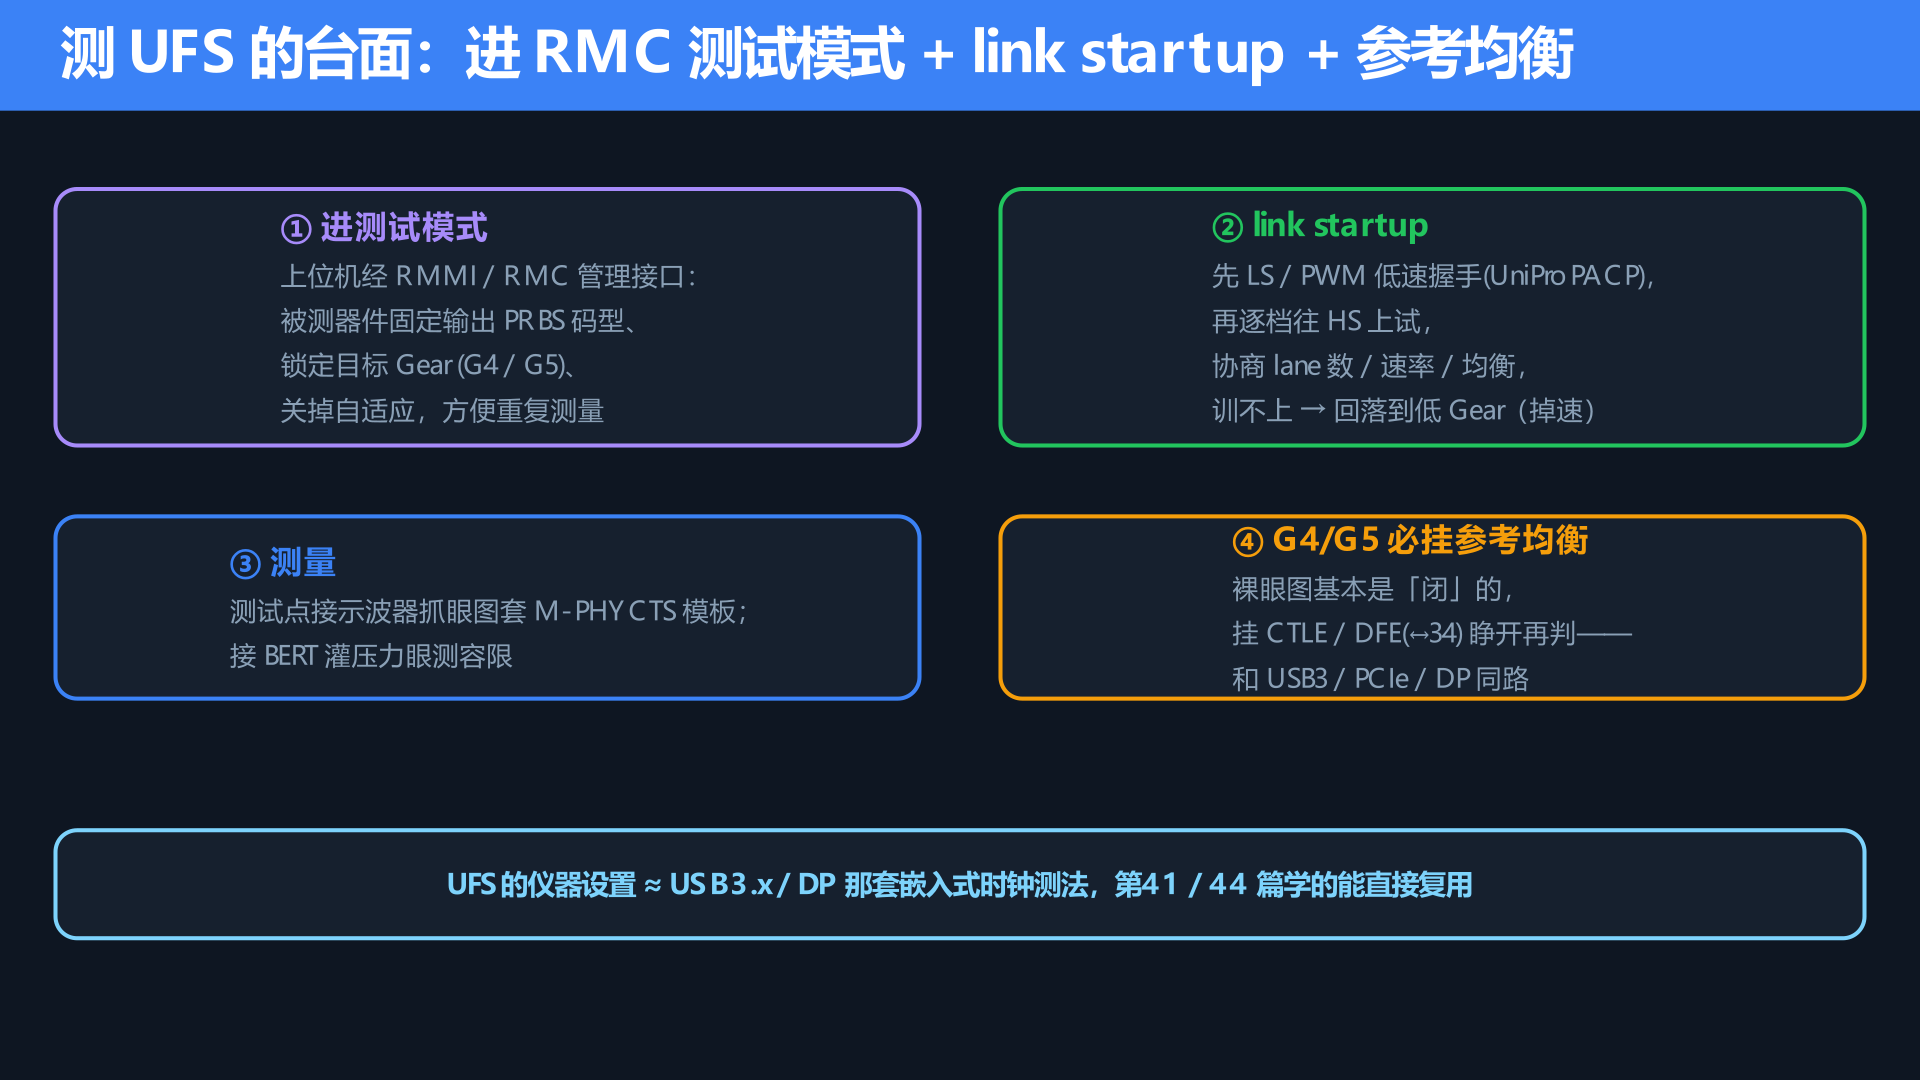
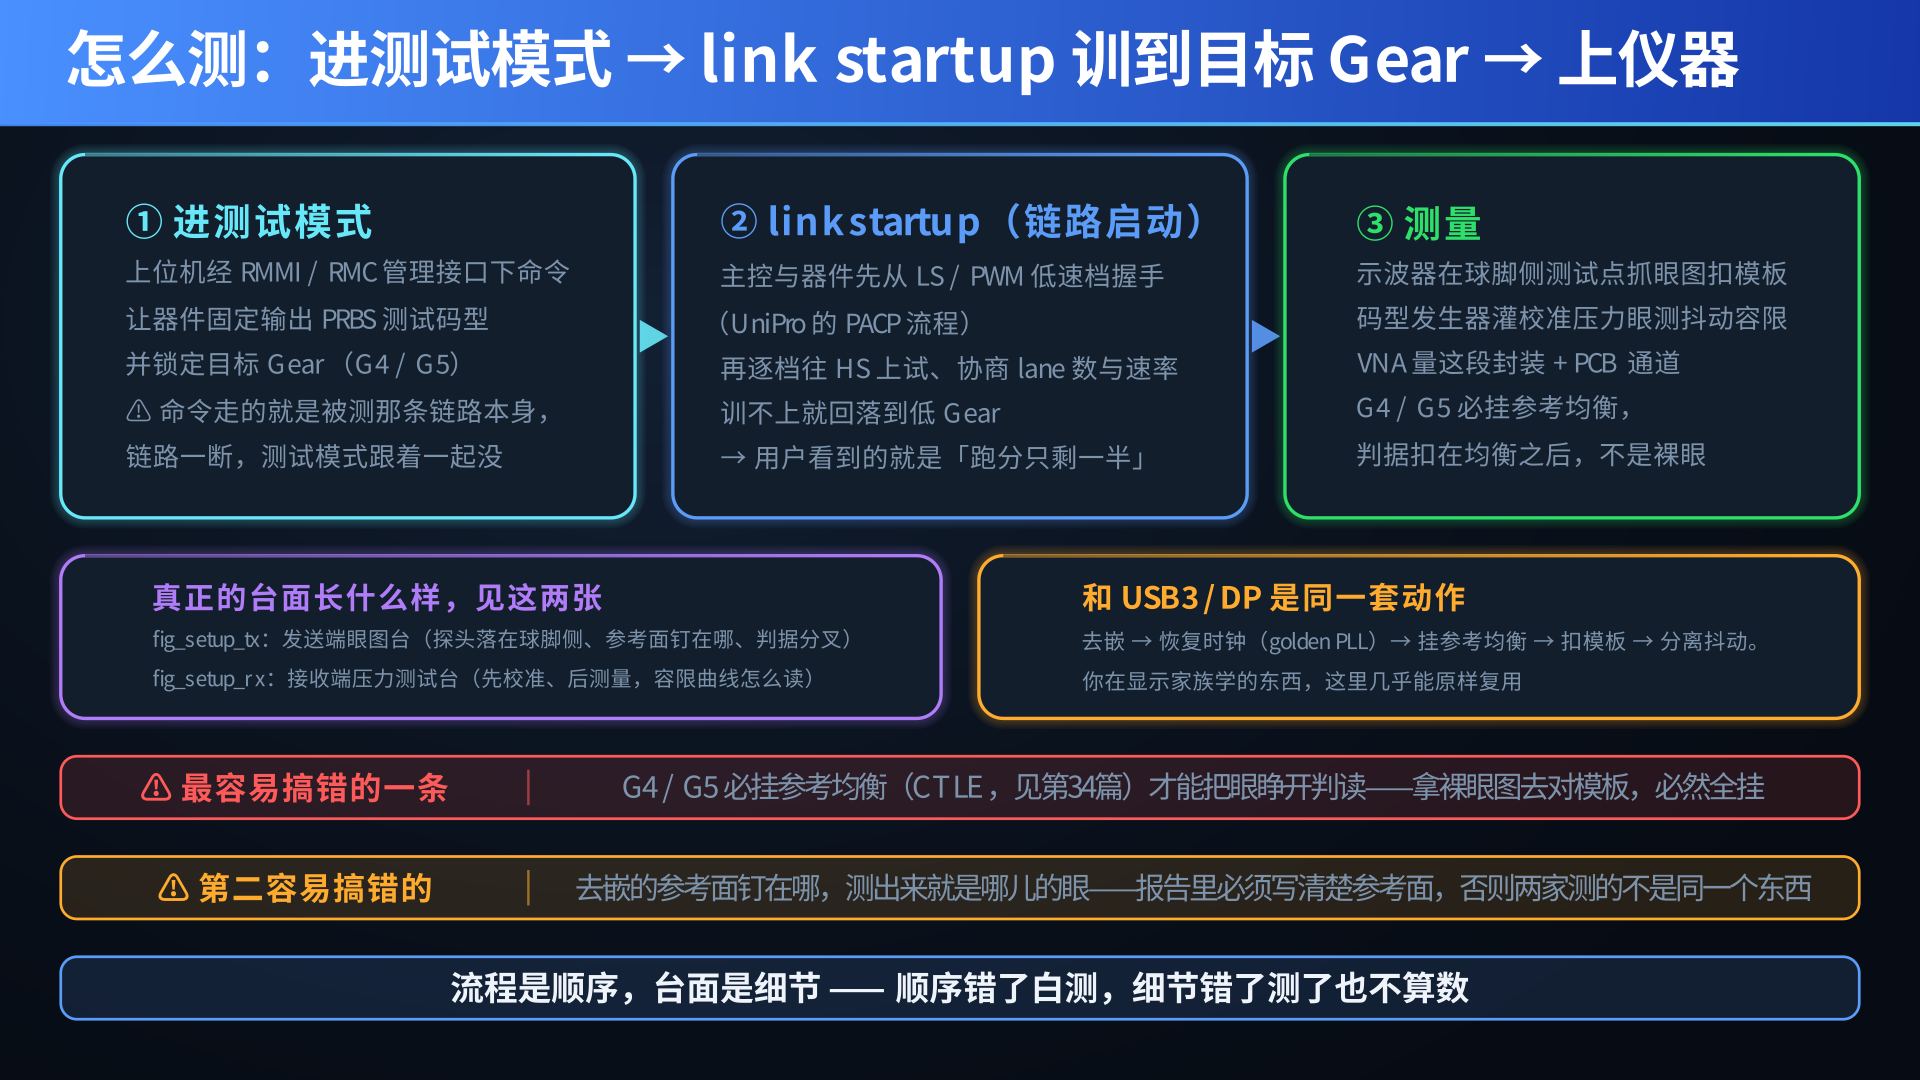
第42篇 UFS 提质产物上线：4 张真实仿真动图 + 2 张 Setup 图 + 9 张静态图返修
- 新增 anim01_wall（并行的墙 424 vs 串行 4640）、anim02_gear（G5 眼高先擦穿）、
  anim03_eq（CTLE 扫 0~12 dB，规范档 9 dB 刚刚够）、anim04_train（插损劣化掉档砍一半）
- 新增 fig_setup_tx / fig_setup_rx 两张台面图
- 9 张静态图随终审返修更新（手绘示意眼换 ufs_phys 真跑眼图）
- 动图编号已对齐文中出现顺序

Copilot-Session: 0c54789d-a2d3-4106-a88d-d5fe4e4f6fac

diff --git a/index.md b/index.md
@@ -36,9 +36,9 @@ hero:
 
 ## 🆕 最新更新
 
+- [42 · 同样是 256G 手机，为什么有的秒开大型游戏、有的卡到怀疑人生？——UFS：把 eMMC 的并行老总线换成 MIPI M-PHY 串行，一致性测法为什么和显示家族"分了家"](/articles/42) 🔧
 - [40 · 同样一根 HDMI 线，为什么有的能 4K120 / 8K、有的一插就花屏黑屏？——HDMI：从 TMDS 到 FRL，测法怎么跟着传输机制换了一套](/articles/40) 🔧
 - [39 · 同样一根 USB-C 线，为什么有的 100W 快充、有的只有 5V？——USB-C / USB PD：一致性测试里唯一不看眼图的一篇](/articles/39) 🔧
 - [38 · 同样是 USB，为什么 10G 的眼图在示波器上直接是「闭」的？——USB 3.x 超速，一致性测试真正的深水区](/articles/38) 🔧
 - [37 · 插移动硬盘就掉速？3000 个比特叠成一只「眼」，USB 2.0 就靠它判生死——眼高差 23 毫伏，这根线就贴不上 USB logo](/articles/37) 🔧
 - [36 · 一条走线好好的，眼图却塌了——TDR 怎么像"给走线做 B 超"，一眼揪出坏在第几厘米？](/articles/36) 🔧
-- [pi01 · 同一颗 CPU，核心电压每秒跳几百次——你还按 1.0V±3% 测纹波，测的是一个根本不存在的工作点](/articles/pi01) 🔧
